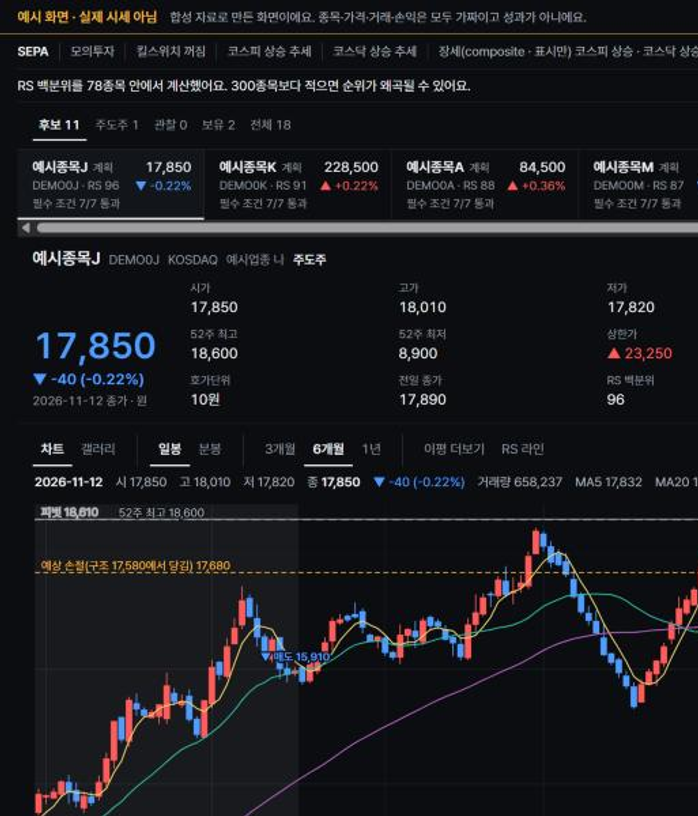
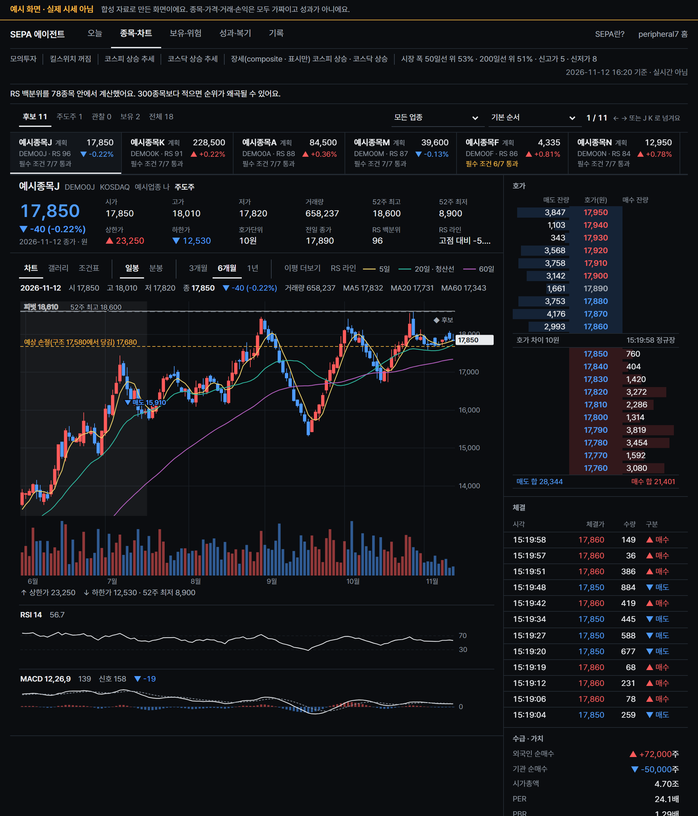
SEPA 에이전트: 게시글 썸네일을 탭 5개 새 화면(종목·차트 탭)으로 바꾸고, SEPA가 무엇을 보고 사고파는지 짧게 소개하는 /sepa/about.html 추가

diff --git a/public/sepa/about.html b/public/sepa/about.html
@@ -1,0 +1,114 @@
+<!doctype html>
+<html lang="ko">
+<head>
+<meta charset="utf-8">
+<meta name="viewport" content="width=device-width,initial-scale=1">
+<meta name="theme-color" content="#0b0d10">
+<meta name="color-scheme" content="dark">
+<title>SEPA 에이전트 소개</title>
+<meta name="description" content="미너르비니식 SEPA 추세추종 매매를 일봉으로 자동화한 연습 프로그램이 무엇을 보고 사고파는지 짧게 소개합니다.">
+<style>
+:root{
+  --bg:#0b0d10; --raise:#12161b; --line:#232a32; --line2:#39424d;
+  --text:#e9ebee; --sub:#a2aab4; --faint:#858e99; --up:#ff5b5b; --down:#4f9cff; --warn:#f2b441;
+  --sans:"Pretendard","Apple SD Gothic Neo","Malgun Gothic","Noto Sans KR",system-ui,sans-serif;
+}
+*{box-sizing:border-box}
+html{-webkit-text-size-adjust:100%}
+body{margin:0;background:var(--bg);color:var(--text);font:16px/1.7 var(--sans);font-variant-numeric:tabular-nums;word-break:keep-all;overflow-wrap:anywhere}
+a{color:var(--text);text-underline-offset:3px}
+a:hover{color:#fff}
+:focus-visible{outline:2px solid var(--text);outline-offset:2px}
+.top{display:flex;align-items:center;gap:8px 20px;flex-wrap:wrap;max-width:960px;margin:0 auto;padding:12px 16px;border-bottom:1px solid var(--line);font-size:13px}
+.top b{font-weight:600}
+.top nav{display:flex;gap:18px;margin-left:auto}
+.top nav a{color:var(--sub);text-decoration:none;min-height:44px;display:inline-flex;align-items:center}
+.top nav a:hover{color:var(--text);text-decoration:underline}
+main{max-width:960px;margin:0 auto;padding:0 16px 64px}
+h1{font-size:clamp(28px,5vw,40px);line-height:1.25;font-weight:600;margin:48px 0 12px;letter-spacing:-.01em}
+.lead{font-size:18px;color:var(--sub);max-width:40em;margin:0 0 8px}
+.lead strong{color:var(--text);font-weight:600}
+h2{font-size:15px;font-weight:600;color:var(--sub);margin:56px 0 14px;padding-bottom:8px;border-bottom:1px solid var(--line)}
+p{max-width:40em;margin:0 0 14px}
+.muted{color:var(--sub)}
+/* 후보가 되는 순서: 실제 차례라서 번호를 단다 */
+ol.flow{list-style:none;margin:0;padding:0;counter-reset:f;max-width:46em}
+ol.flow li{counter-increment:f;display:grid;grid-template-columns:44px minmax(0,1fr);gap:0 12px;padding:14px 0;border-bottom:1px solid var(--line)}
+ol.flow li::before{content:counter(f);font-size:22px;font-weight:600;color:var(--faint);line-height:1.3}
+ol.flow b{display:block;font-weight:600}
+ol.flow span{color:var(--sub);font-size:15px}
+/* 사고팔기 규칙: 숫자가 주인공 */
+.rules{display:grid;grid-template-columns:repeat(auto-fit,minmax(210px,1fr));margin:0;border-top:1px solid var(--line)}
+.rules div{padding:14px 16px 14px 0;border-bottom:1px solid var(--line)}
+.rules dt{font-size:13px;color:var(--faint)}
+.rules dd{margin:2px 0 0;font-size:24px;font-weight:600;line-height:1.3}
+.rules dd small{display:block;font-size:13.5px;font-weight:400;color:var(--sub);line-height:1.5;margin-top:4px}
+.up{color:var(--up)} .down{color:var(--down)}
+/* 하루 흐름 */
+.day{display:grid;grid-template-columns:repeat(2,minmax(0,1fr));gap:0 32px;max-width:46em}
+.day h3{font-size:15px;font-weight:600;margin:0 0 6px}
+.day p{font-size:15px;color:var(--sub)}
+.tabs{margin:0;padding:0;list-style:none;max-width:46em}
+.tabs li{display:grid;grid-template-columns:96px minmax(0,1fr);gap:0 12px;padding:9px 0;border-bottom:1px solid var(--line);font-size:15px}
+.tabs a{font-weight:600}
+.tabs span{color:var(--sub)}
+.note{border-left:2px solid var(--warn);padding:2px 0 2px 14px;color:var(--sub);font-size:14.5px;max-width:46em}
+.note b{color:var(--warn);font-weight:600}
+.go{display:inline-flex;align-items:center;min-height:44px;margin-top:20px;padding:0 18px;border:1px solid var(--line2);color:var(--text);text-decoration:none;font-weight:600}
+.go:hover{background:var(--raise)}
+@media (max-width:640px){
+  .lead{font-size:16.5px}
+  .day{grid-template-columns:minmax(0,1fr)}
+  .tabs li{grid-template-columns:84px minmax(0,1fr)}
+  .rules dd{font-size:21px}
+}
+</style>
+</head>
+<body>
+<header class="top"><b>SEPA 에이전트</b><nav aria-label="이동"><a href="/sepa/">확인 화면</a><a href="/">peripheral7 홈</a></nav></header>
+<main>
+<h1>SEPA 에이전트는<br>무엇을 보고 사고파나</h1>
+<p class="lead">마크 미너르비니가 쓴 <strong>SEPA</strong>(Specific Entry Point Analysis) 방식으로 주식을 고르고 사고파는 연습용 프로그램이에요. 한국 주식 일봉을 보고, 기본은 <strong>모의투자</strong>예요.</p>
+<p class="muted">한 줄로 줄이면 이미 오르고 있는 강한 종목이 잠시 쉬었다가 거래량을 실어 다시 뛰는 순간에 사고 틀리면 작게 잃고 나와요.</p>
+<a class="go" href="/sepa/">확인 화면 열기</a>
+
+<h2>종목이 후보가 되기까지</h2>
+<ol class="flow">
+  <li><div><b>추세가 위를 향하는가</b><span>트렌드 템플릿 8가지 조건. 주가가 150일선 · 200일선 위에 있고 200일선이 한 달 넘게 오르고 52주 고점에서 25% 안쪽이어야 해요.</span></div></li>
+  <li><div><b>시장보다 강한가</b><span>상대강도(RS). 최근 3 · 6 · 9 · 12개월 수익률로 전체 종목 중 순위를 매겨 상위 30%(70점 이상)만 남겨요.</span></div></li>
+  <li><div><b>흔들림이 잦아들었나</b><span>VCP(변동성 수축). 주가가 2~4번 오르내리면서 출렁이는 폭이 점점 작아지고 거래량이 말라 가는 모양을 찾아요. 그 위쪽 끝이 피벗이에요.</span></div></li>
+  <li><div><b>실적이 받쳐 주나</b><span>분기 순이익이 1년 전보다 25% 넘게 늘었는지 봐요.</span></div></li>
+  <li><div><b>시장이 괜찮은가</b><span>코스피 · 코스닥 지수가 50일선 위에, 50일선이 200일선 위에 있을 때만 새로 사요.</span></div></li>
+  <li><div><b>지금 뚫고 나가나</b><span>장중에 주가가 피벗을 평소(50일 평균) 거래량의 1.5배 넘게 실어 돌파하면 사요. 피벗보다 5% 넘게 올라가 버렸으면 쫓아가지 않아요.</span></div></li>
+</ol>
+
+<h2>사고팔 때 지키는 숫자</h2>
+<dl class="rules">
+  <div><dt>처음 손절</dt><dd class="down">−5% 이내<small>산 값에서 5% 떨어지기 전에 팔아요. 패턴의 바닥이 더 가까우면 그 자리에서.</small></dd></div>
+  <div><dt>추세가 꺾이면</dt><dd>20일선<small>종가가 20일 이동평균 아래로 마감하면 다음 날 팔아요.</small></dd></div>
+  <div><dt>한 번에 거는 위험</dt><dd>계좌의 1.25%<small>손절까지 갔을 때 잃는 돈이 이 선을 넘지 않게 수량을 정해요.</small></dd></div>
+  <div><dt>들고 가는 종목</dt><dd>최대 8개<small>한 종목은 계좌의 25%, 전부 합쳐 80%까지. 빚은 쓰지 않아요.</small></dd></div>
+  <div><dt>하루 손실 한도</dt><dd>−3%<small>여기에 닿으면 그날은 새로 사지 않아요. 손절과 청산은 계속해요.</small></dd></div>
+</dl>
+
+<h2>하루는 이렇게 흘러가요</h2>
+<div class="day">
+  <div><h3>장 마감 뒤 (한 번)</h3><p>일봉을 받아 위 조건으로 후보를 고르고 언어 모델(LLM)이 실적 · 공시 · 뉴스 요약을 보고 빼야 할 까닭이 있는지 한 번 더 걸러요. 결과는 다음 날 매매 계획으로 저장돼요.</p></div>
+  <div><h3>장중 (계속)</h3><p>실시간 체결가를 보면서 손절 · 청산부터 챙기고 그다음 계획에 있는 종목의 돌파를 기다려요. 모든 주문은 위험 점검(RiskGate)을 통과해야 나가요.</p></div>
+</div>
+<p class="muted">언어 모델은 후보를 검토만 해요. 수량을 정하거나 주문을 낼 수는 없어요.</p>
+
+<h2>확인 화면의 탭</h2>
+<ul class="tabs">
+  <li><a href="/sepa/#today">오늘</a><span>계좌 · 노출 · 손실 한도 숫자, 오늘 살 후보, 들고 있는 종목, 최근 판단</span></li>
+  <li><a href="/sepa/#chart">종목·차트</a><span>후보 · 주도주 차트와 피벗 · 손절선, 조건표(필수 조건을 몇 개 통과했나)</span></li>
+  <li><a href="/sepa/#risk">보유·위험</a><span>보유 · 계획 표, 수량과 손실을 직접 계산해 보는 베팅 검토</span></li>
+  <li><a href="/sepa/#perf">성과·복기</a><span>백테스트 · 모의 · 실전 성과, 거래 하나씩 차트로 되짚기</span></li>
+  <li><a href="/sepa/#log">기록</a><span>스캔부터 청산까지 시간순 기록, 왜 거절 · 청산됐는지</span></li>
+</ul>
+
+<h2>먼저 알아 둘 것</h2>
+<p class="note"><b>확인 화면은 예시예요.</b> 종목 · 가격 · 거래 · 손익은 모두 만든 자료이고 성과가 아니에요. 위 숫자는 책을 기억해 정한 출발값이라 원문과 맞춰 보지 못했고 실제 일봉 백테스트로 확인하기 전이에요. 수익을 보장하지 않아요.</p>
+</main>
+</body>
+</html>
